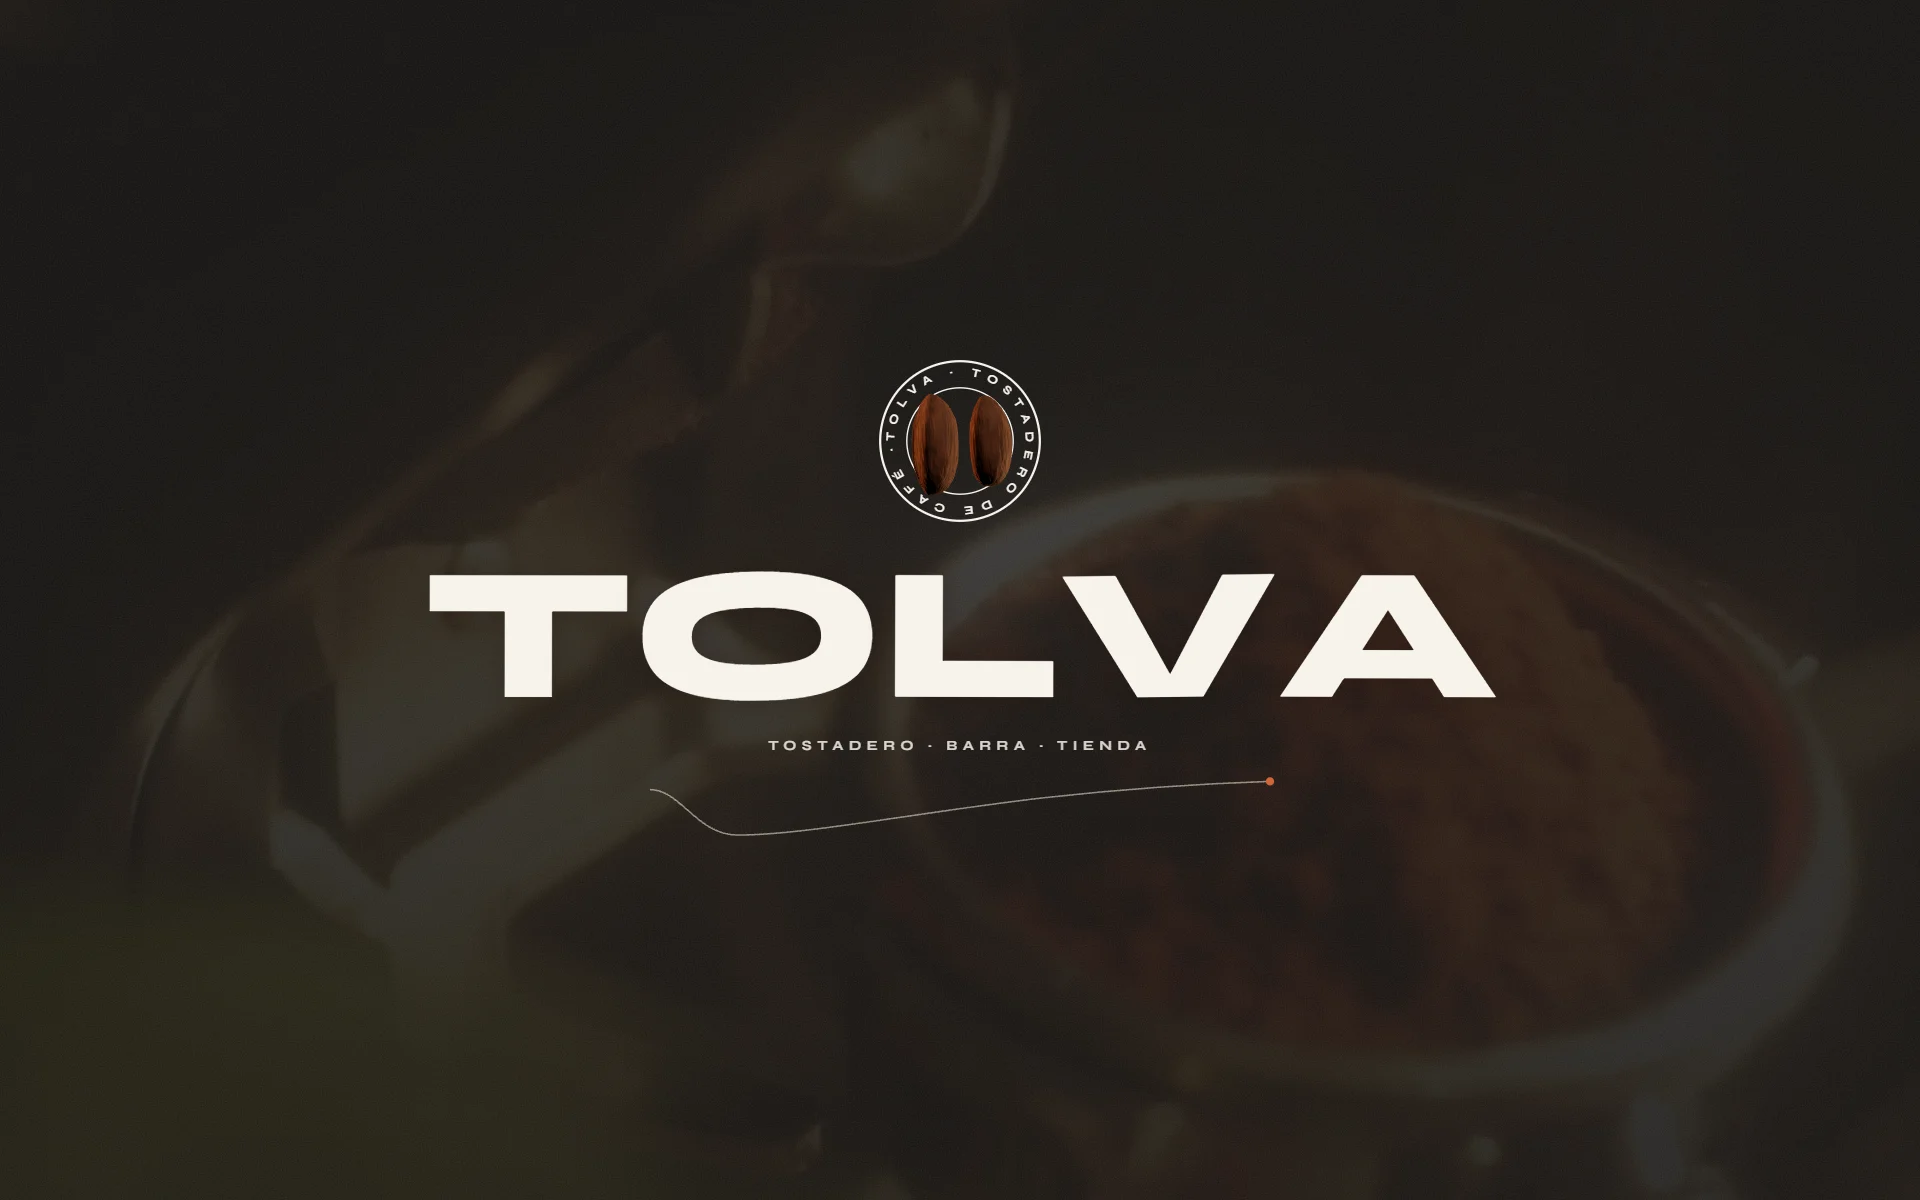
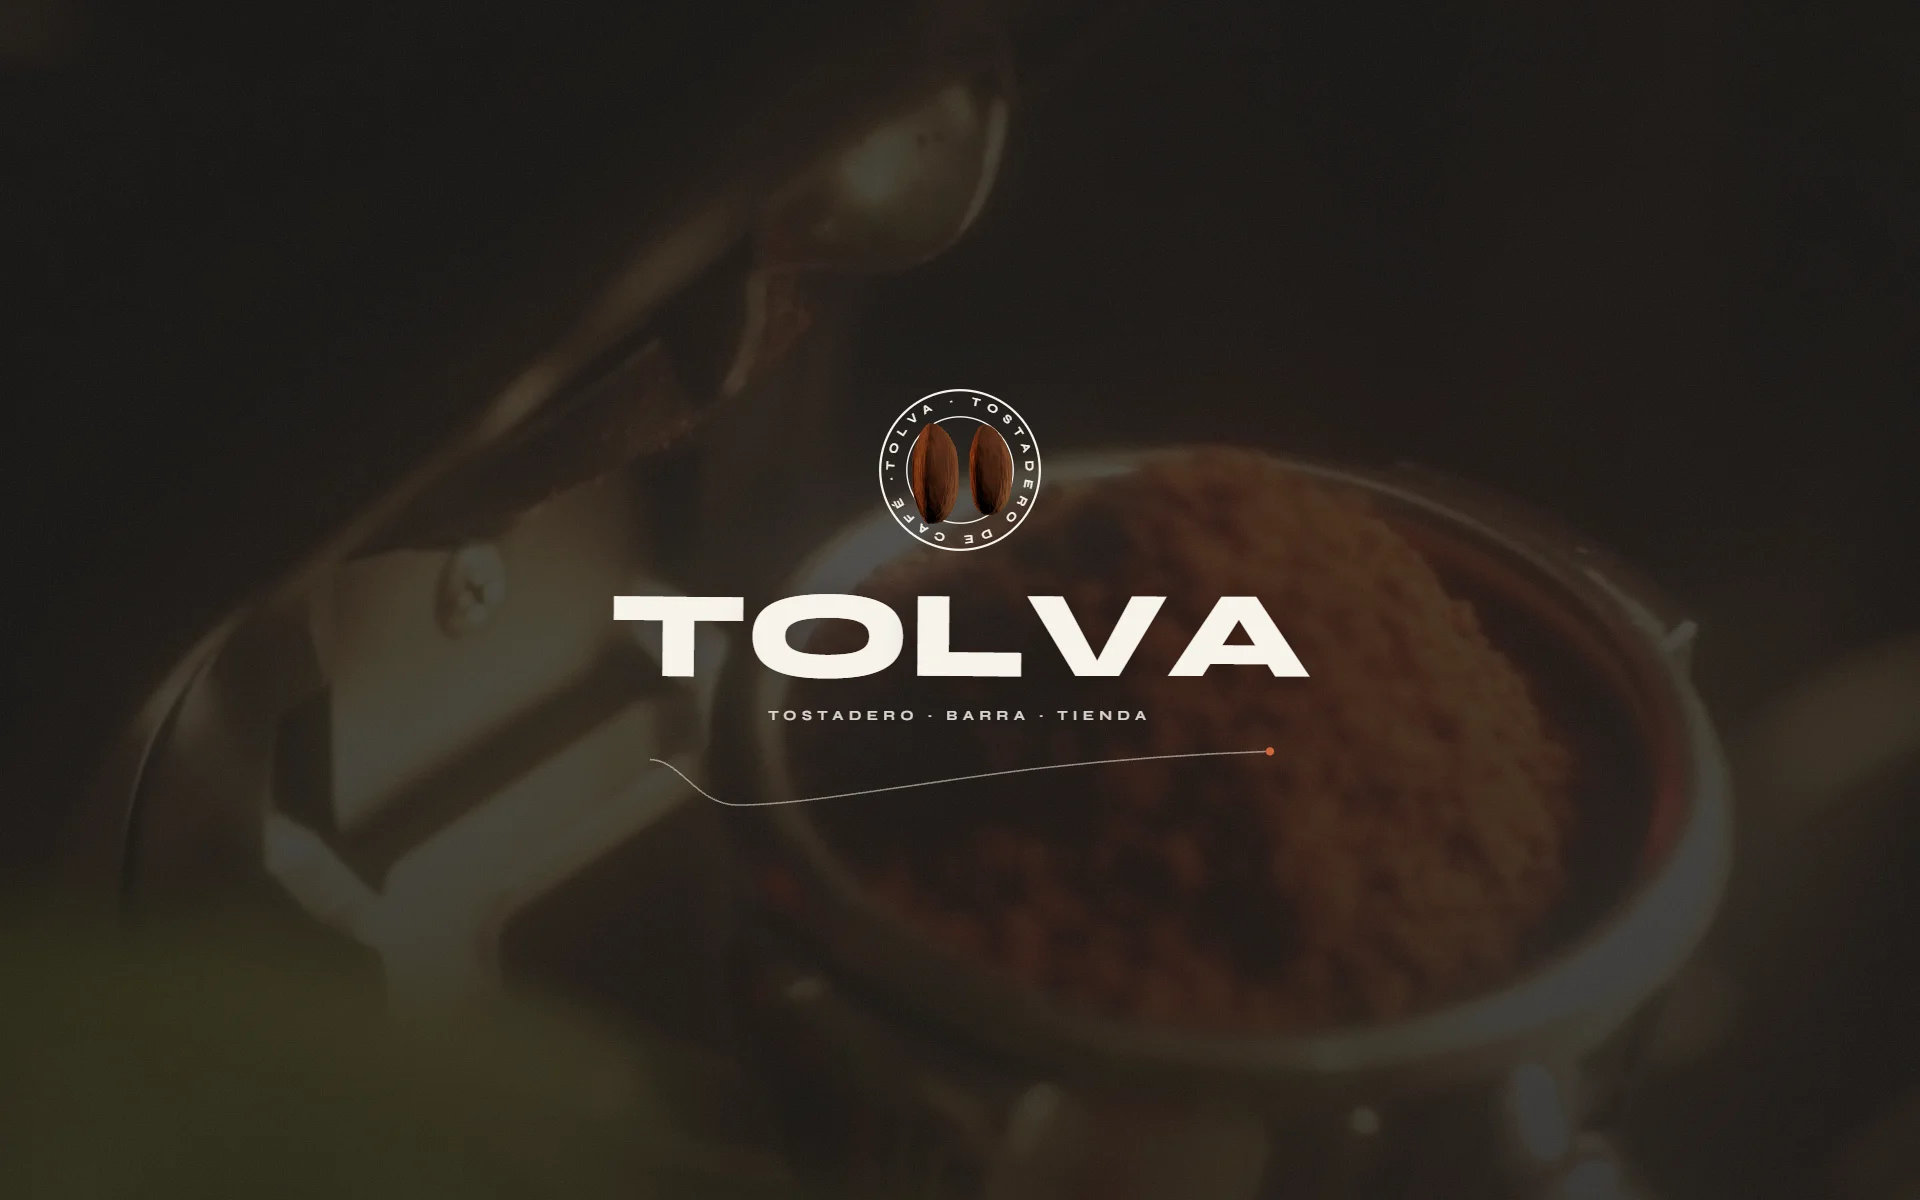
Tolva stories over a dimmed café interior (Pexels); cover refreshed

diff --git a/public/concepts/tolva-stories/index.html b/public/concepts/tolva-stories/index.html
@@ -20,6 +20,11 @@
   html, body { height: 100%; }
   body { background: #1d1c1a; overflow: hidden; font-family: Syne, sans-serif; cursor: grab; user-select: none; touch-action: pan-y; }
   body.dragging { cursor: grabbing; }
+  /* behind the cards, a café's interior (Pexels), dimmed with a neutral veil so the stories stand out */
+  body::before {
+    content: ""; position: fixed; inset: 0;
+    background: linear-gradient(rgba(22,20,18,.72), rgba(22,20,18,.72)), url(cafe.jpg) center / cover no-repeat;
+  }
   .stage { position: absolute; inset: 0; perspective: calc(var(--w) * 6); perspective-origin: 50% 45%; }
   .ring { position: absolute; left: 50%; top: 50%; width: 0; height: 0; transform-style: preserve-3d; }
 

diff --git a/src/outils/cases.ts b/src/outils/cases.ts
@@ -324,7 +324,7 @@ export const cases: Case[] = [
       { src: "", video: "/video/tolva-sheet.mp4", videoSpeed: 1, pair: true },
       { src: "", video: "/video/tolva-palette.mp4", videoSpeed: 1 },
       // the brand's stories running past on a dark band, without end
-      { src: "", viewer: "devices", frame: "/concepts/tolva-stories/index.html?v=6" },
+      { src: "", viewer: "devices", frame: "/concepts/tolva-stories/index.html?v=7" },
     ],
   },
   {
